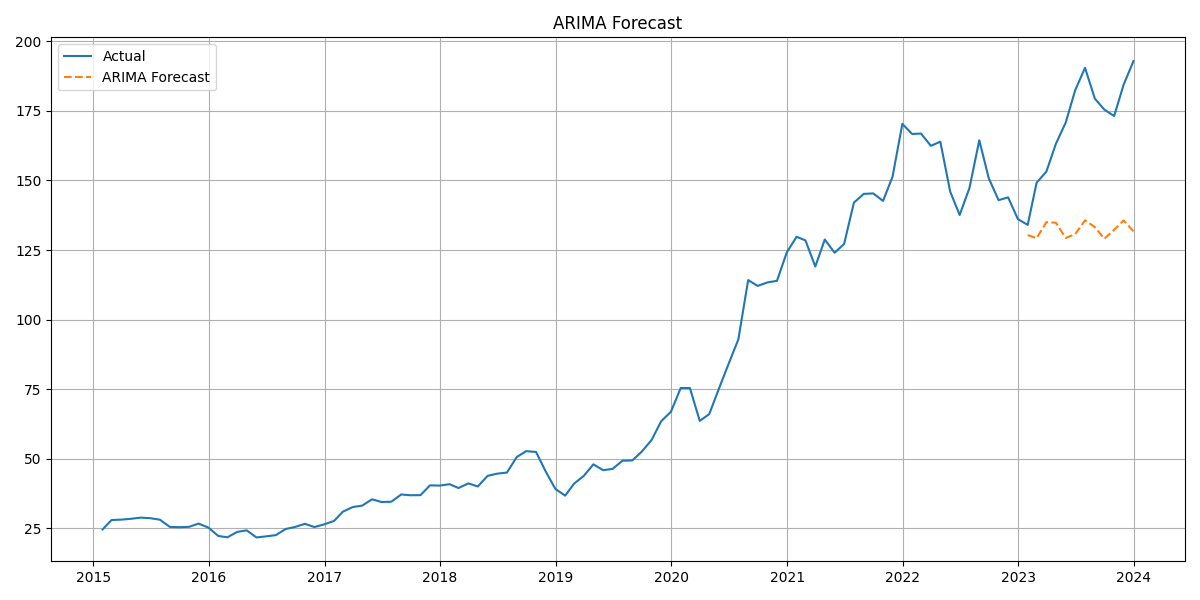
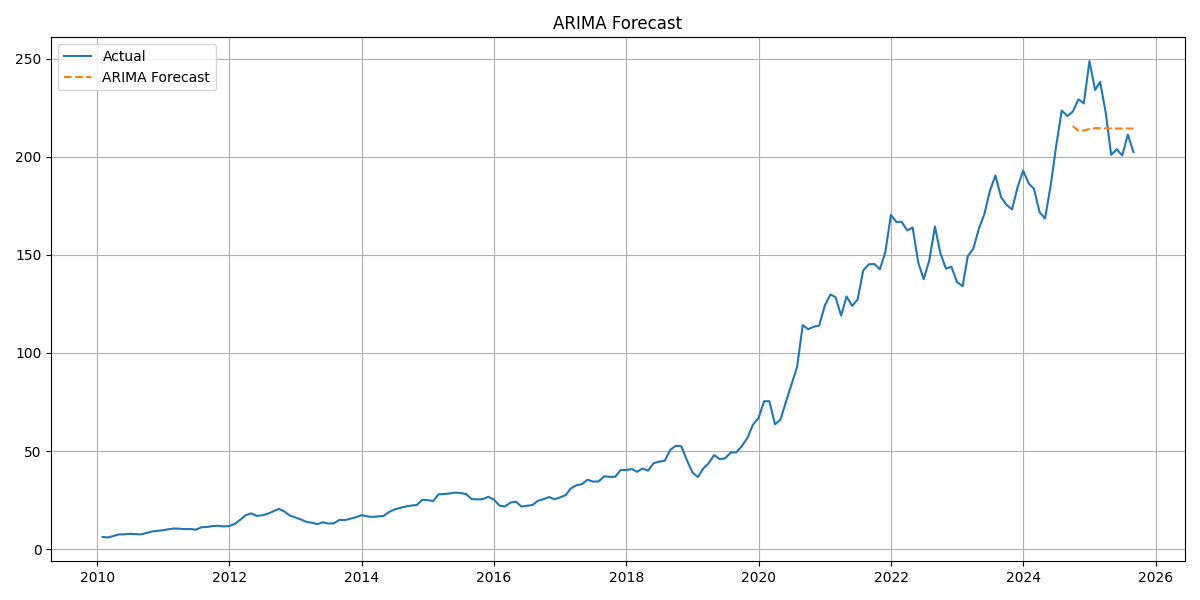
Final deployment: forecast period slider, dynamic ticker, model runner

diff --git a/dashboard/streamlit_app.py b/dashboard/streamlit_app.py
@@ -16,6 +16,8 @@ plot_path = f"{model_key}_forecast.png"
 
 col1, col2 = st.columns(2)
 
+
+
 with col1:
     st.subheader("📊 Forecast Plot")
     if os.path.exists(plot_path):
@@ -78,10 +80,19 @@ if best_mae == best_rmse == best_mape:
 else:
     st.info("ℹ Different models perform better on different metrics. Choose based on your priority (e.g., lower % error or fewer outliers).")
 uploaded_file = st.file_uploader("Upload your own stock CSV", type=["csv"])
-if uploaded_file:
-    df = pd.read_csv(uploaded_file, index_col=0, parse_dates=True)
-else:
-    df = pd.read_csv("AAPL_cleaned.csv", index_col=0, parse_dates=True)
+import yfinance as yf
+
+@st.cache_data
+def load_stock_data(ticker="AAPL"):
+    data = yf.download(ticker, start="2010-01-01")
+    return data
+
+ticker = st.text_input("Enter stock ticker (e.g., AAPL, MSFT):", value="AAPL")
+df = load_stock_data(ticker)
+
+if df.empty:
+    st.error("⚠ Failed to load data. Check ticker symbol or internet connection.")
+
 
 import subprocess
 forecast_period = st.slider("Forecast Months", 3, 24, 12)

diff --git a/models/prophet_model.py b/models/prophet_model.py
@@ -8,6 +8,7 @@ import warnings
 import os
 import json
 import sys
+import streamlit as st
 
 warnings.filterwarnings("ignore")
 
@@ -15,7 +16,15 @@ warnings.filterwarnings("ignore")
 forecast_period = int(sys.argv[1]) if len(sys.argv) > 1 else 12
 
 # Load and preprocess data
-df = pd.read_csv("AAPL_cleaned.csv", index_col=0)
+import yfinance as yf
+
+@st.cache_data
+def load_stock_data(ticker="AAPL"):
+    data = yf.download(ticker, start="2010-01-01", end=None)
+    return data
+
+df = load_stock_data("AAPL")  # or pass user's selected ticker
+
 df.index = pd.to_datetime(df.index)
 monthly_df = df['Close'].resample('M').mean().dropna().reset_index()
 monthly_df.columns = ['ds', 'y']

diff --git a/models/lstm_model.py b/models/lstm_model.py
@@ -10,6 +10,7 @@ import json
 import os
 import warnings
 import sys
+import streamlit as st
 
 warnings.filterwarnings("ignore")
 
@@ -17,7 +18,15 @@ warnings.filterwarnings("ignore")
 forecast_period = int(sys.argv[1]) if len(sys.argv) > 1 else 12
 
 # Load data
-df = pd.read_csv("AAPL_cleaned.csv", index_col=0, parse_dates=True)
+import yfinance as yf
+
+@st.cache_data
+def load_stock_data(ticker="AAPL"):
+    data = yf.download(ticker, start="2010-01-01", end=None)
+    return data
+
+df = load_stock_data("AAPL")  # or pass user's selected ticker
+
 monthly = df['Close'].resample('M').mean().dropna()
 
 # Normalize

diff --git a/models/sarima_model.py b/models/sarima_model.py
@@ -6,10 +6,18 @@ import numpy as np
 from statsmodels.tsa.statespace.sarimax import SARIMAX
 from sklearn.metrics import mean_absolute_error, mean_squared_error
 import os
+import streamlit as st
 
 warnings.filterwarnings("ignore")
+import yfinance as yf
 
-df = pd.read_csv("AAPL_cleaned.csv", index_col=0)
+@st.cache_data
+def load_stock_data(ticker="AAPL"):
+    data = yf.download(ticker, start="2010-01-01", end=None)
+    return data
+
+df = load_stock_data("AAPL")  # or pass user's selected ticker
+
 df.index = pd.to_datetime(df.index)
 monthly_df = df['Close'].resample('M').mean().dropna()
 

diff --git a/models/arima_model.py b/models/arima_model.py
@@ -7,9 +7,19 @@ import numpy as np
 import json
 import os
 warnings.filterwarnings("ignore")
+import streamlit as st
+
 
 # Load and prepare data
-df = pd.read_csv("AAPL_cleaned.csv", index_col=0)
+import yfinance as yf
+
+@st.cache_data
+def load_stock_data(ticker="AAPL"):
+    data = yf.download(ticker, start="2010-01-01", end=None)
+    return data
+
+df = load_stock_data("AAPL")  # or pass user's selected ticker
+
 df.index = pd.to_datetime(df.index)
 monthly_df = df['Close'].resample('M').mean().dropna()  # ✅ FIXED LINE
 

diff --git a/models/decomposition_plot.py b/models/decomposition_plot.py
@@ -1,8 +1,14 @@
 import pandas as pd
 import matplotlib.pyplot as plt
 from statsmodels.tsa.seasonal import seasonal_decompose
+import yfinance as yf
+import streamlit as st
+@st.cache_data
+def load_stock_data(ticker="AAPL"):
+    data = yf.download(ticker, start="2010-01-01", end=None)
+    return data
 
-df = pd.read_csv("AAPL_cleaned.csv", index_col=0)
+df = load_stock_data("AAPL")
 df.index = pd.to_datetime(df.index)
 monthly = df['Close'].resample('M').mean().dropna()
 

diff --git a/data_collection/data_collection.py b/data_collection/data_collection.py
@@ -1,8 +1,16 @@
 import yfinance as yf
 import pandas as pd
-
+import streamlit as st
 # Download stock data (auto_adjust=True is now default)
-df = yf.download("AAPL", start="2015-01-01", end="2024-01-01")
+@st.cache_data
+def load_stock_data(ticker="AAPL"):
+    data = yf.download(ticker, start="2010-01-01", end=None)
+    return data
+
+df = load_stock_data("AAPL")
+
+
+
 
 # Only use available columns (no 'Adj Close')
 df = df[['Open', 'High', 'Low', 'Close', 'Volume']]

diff --git a/eda/eda_plots.py b/eda/eda_plots.py
@@ -1,8 +1,14 @@
 import pandas as pd
 import matplotlib.pyplot as plt
 from statsmodels.tsa.stattools import adfuller
+import streamlit as st
+import yfinance as yf
+@st.cache_data
+def load_stock_data(ticker="AAPL"):
+    data = yf.download(ticker, start="2010-01-01", end=None)
+    return data
 
-df = pd.read_csv("AAPL_cleaned.csv", index_col=0)
+df = load_stock_data("AAPL")
 df.index = pd.to_datetime(df.index)
 
 # Plot

diff --git a/data_preprocessing/data_preprocessing.py b/data_preprocessing/data_preprocessing.py
@@ -1,7 +1,13 @@
 import pandas as pd
+import streamlit as st
+import yfinance as yf
 
+@st.cache_data
+def load_stock_data(ticker="AAPL"):
+    data = yf.download(ticker, start="2010-01-01", end=None)
+    return data
 
-df = pd.read_csv("AAPL_stock_data.csv")
+df = load_stock_data("AAPL")
 
 if 'Unnamed: 0' in df.columns:
     df.rename(columns={'Unnamed: 0': 'Date'}, inplace=True)
